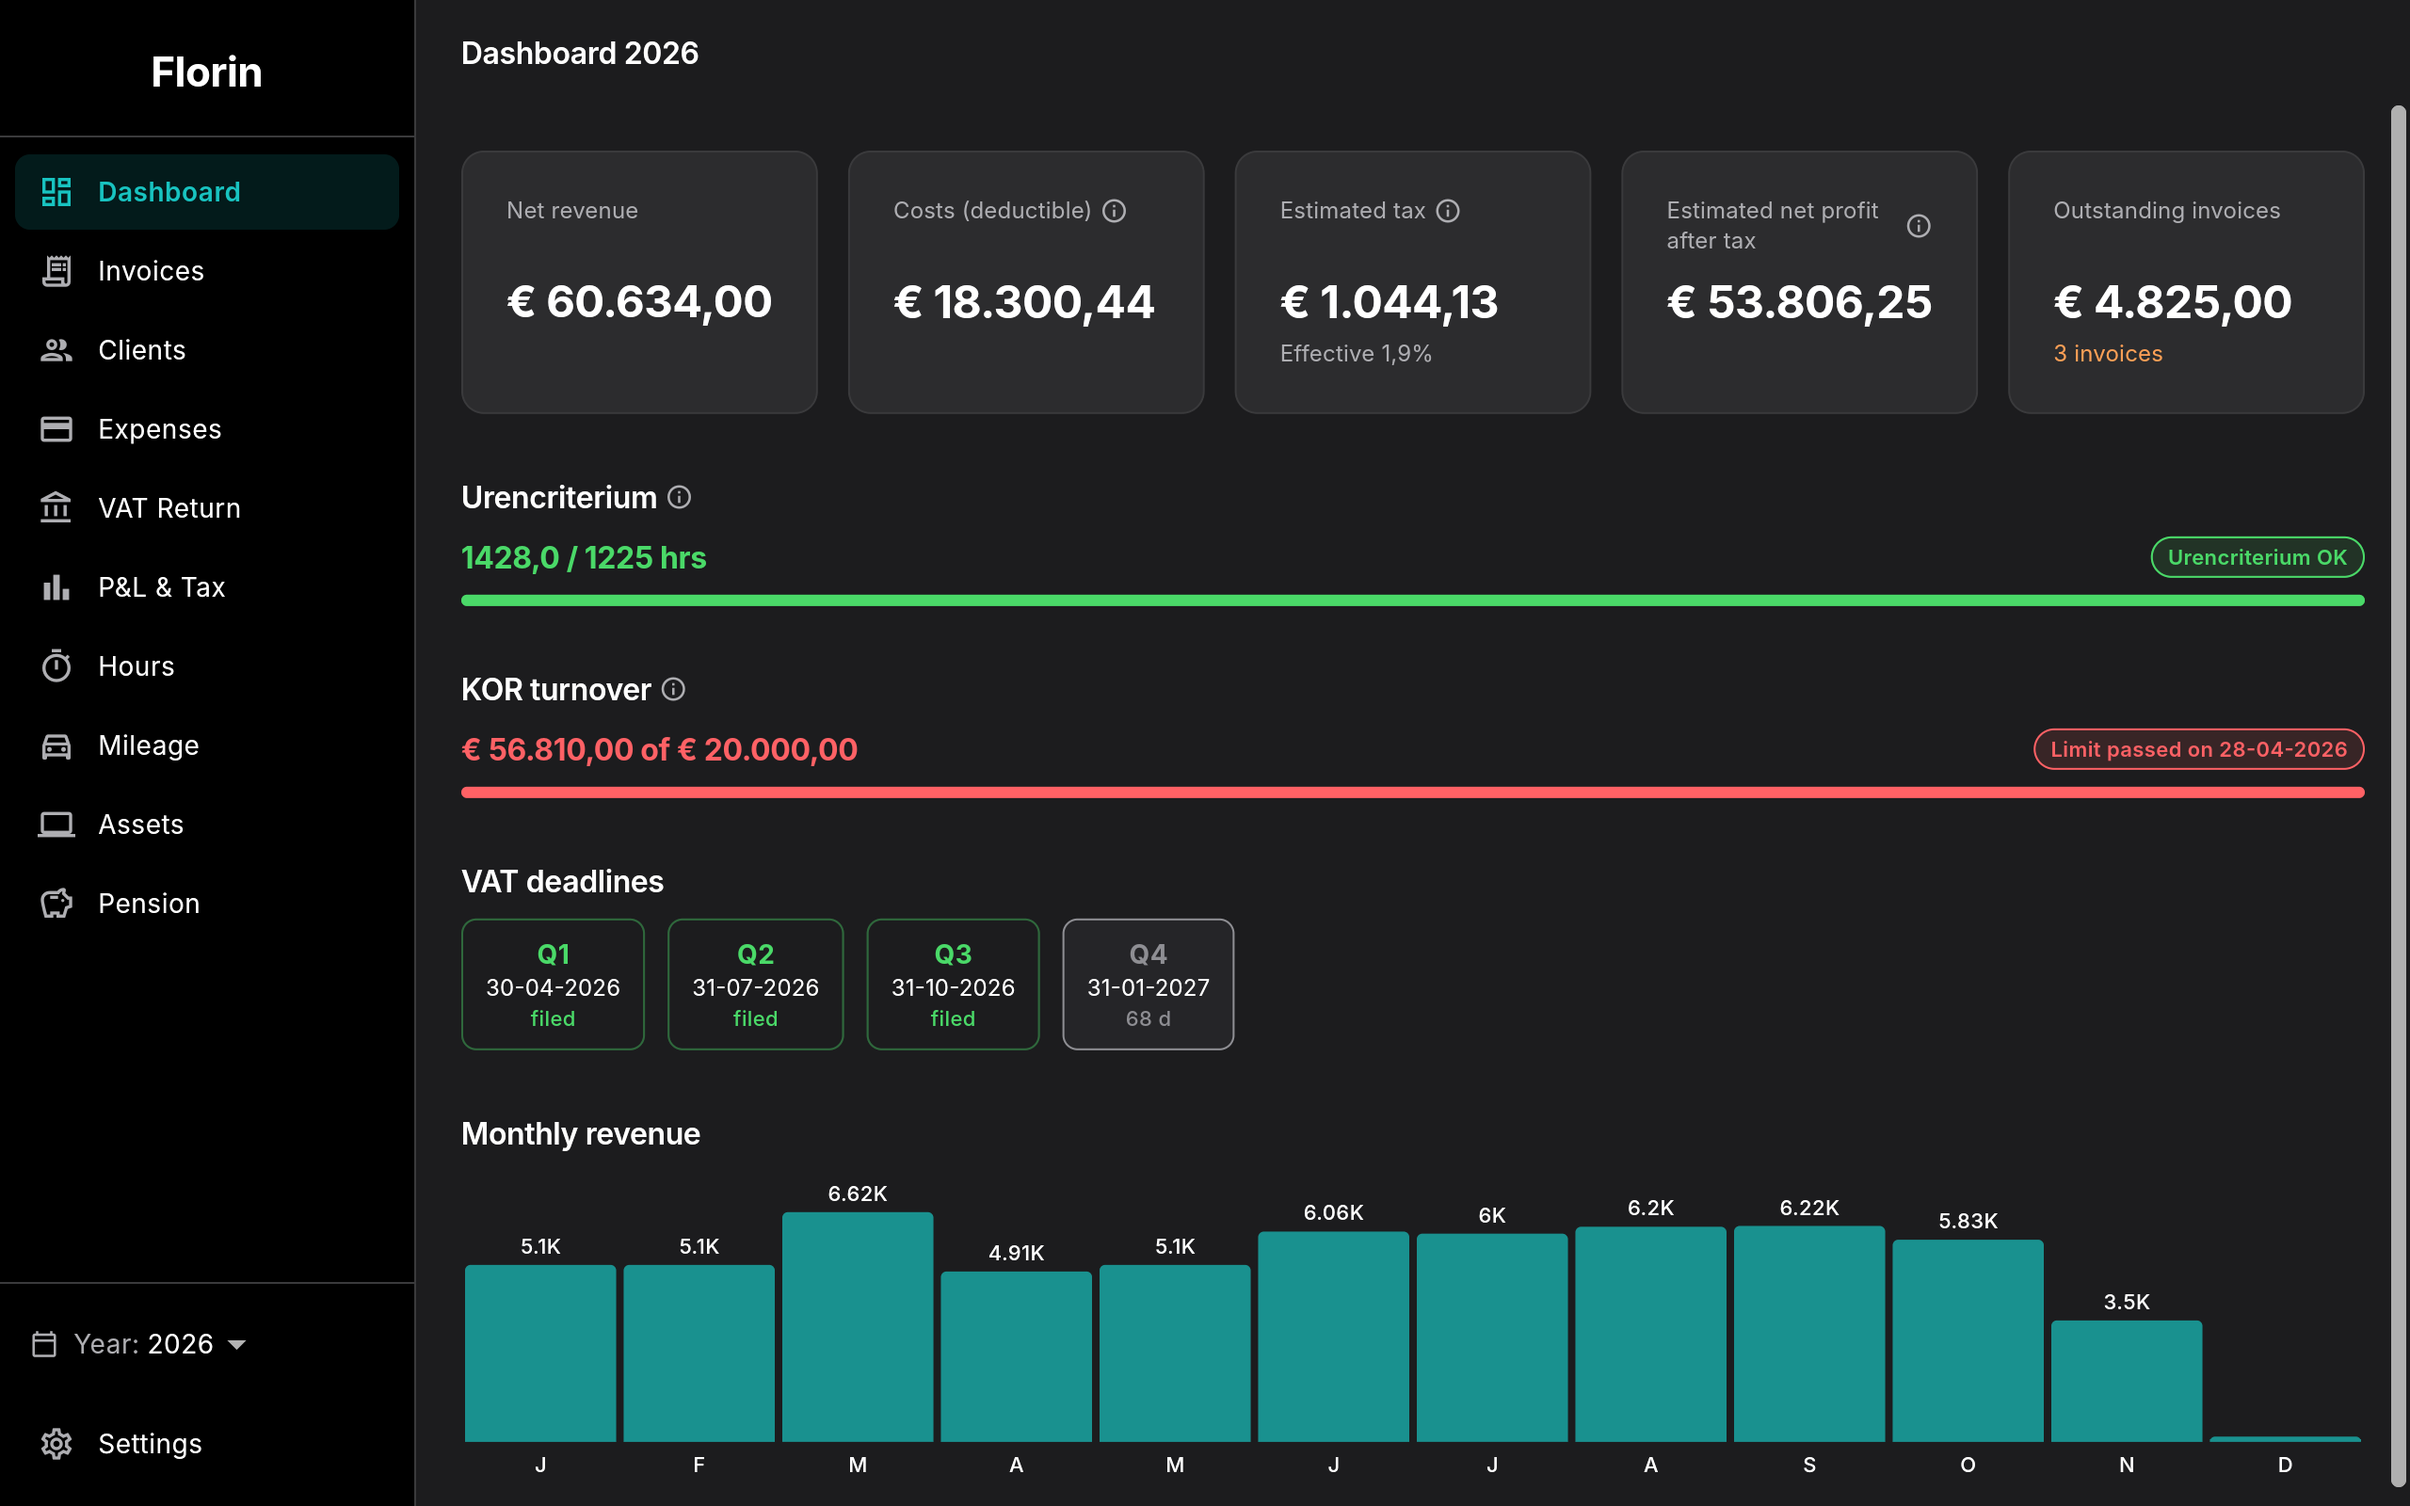
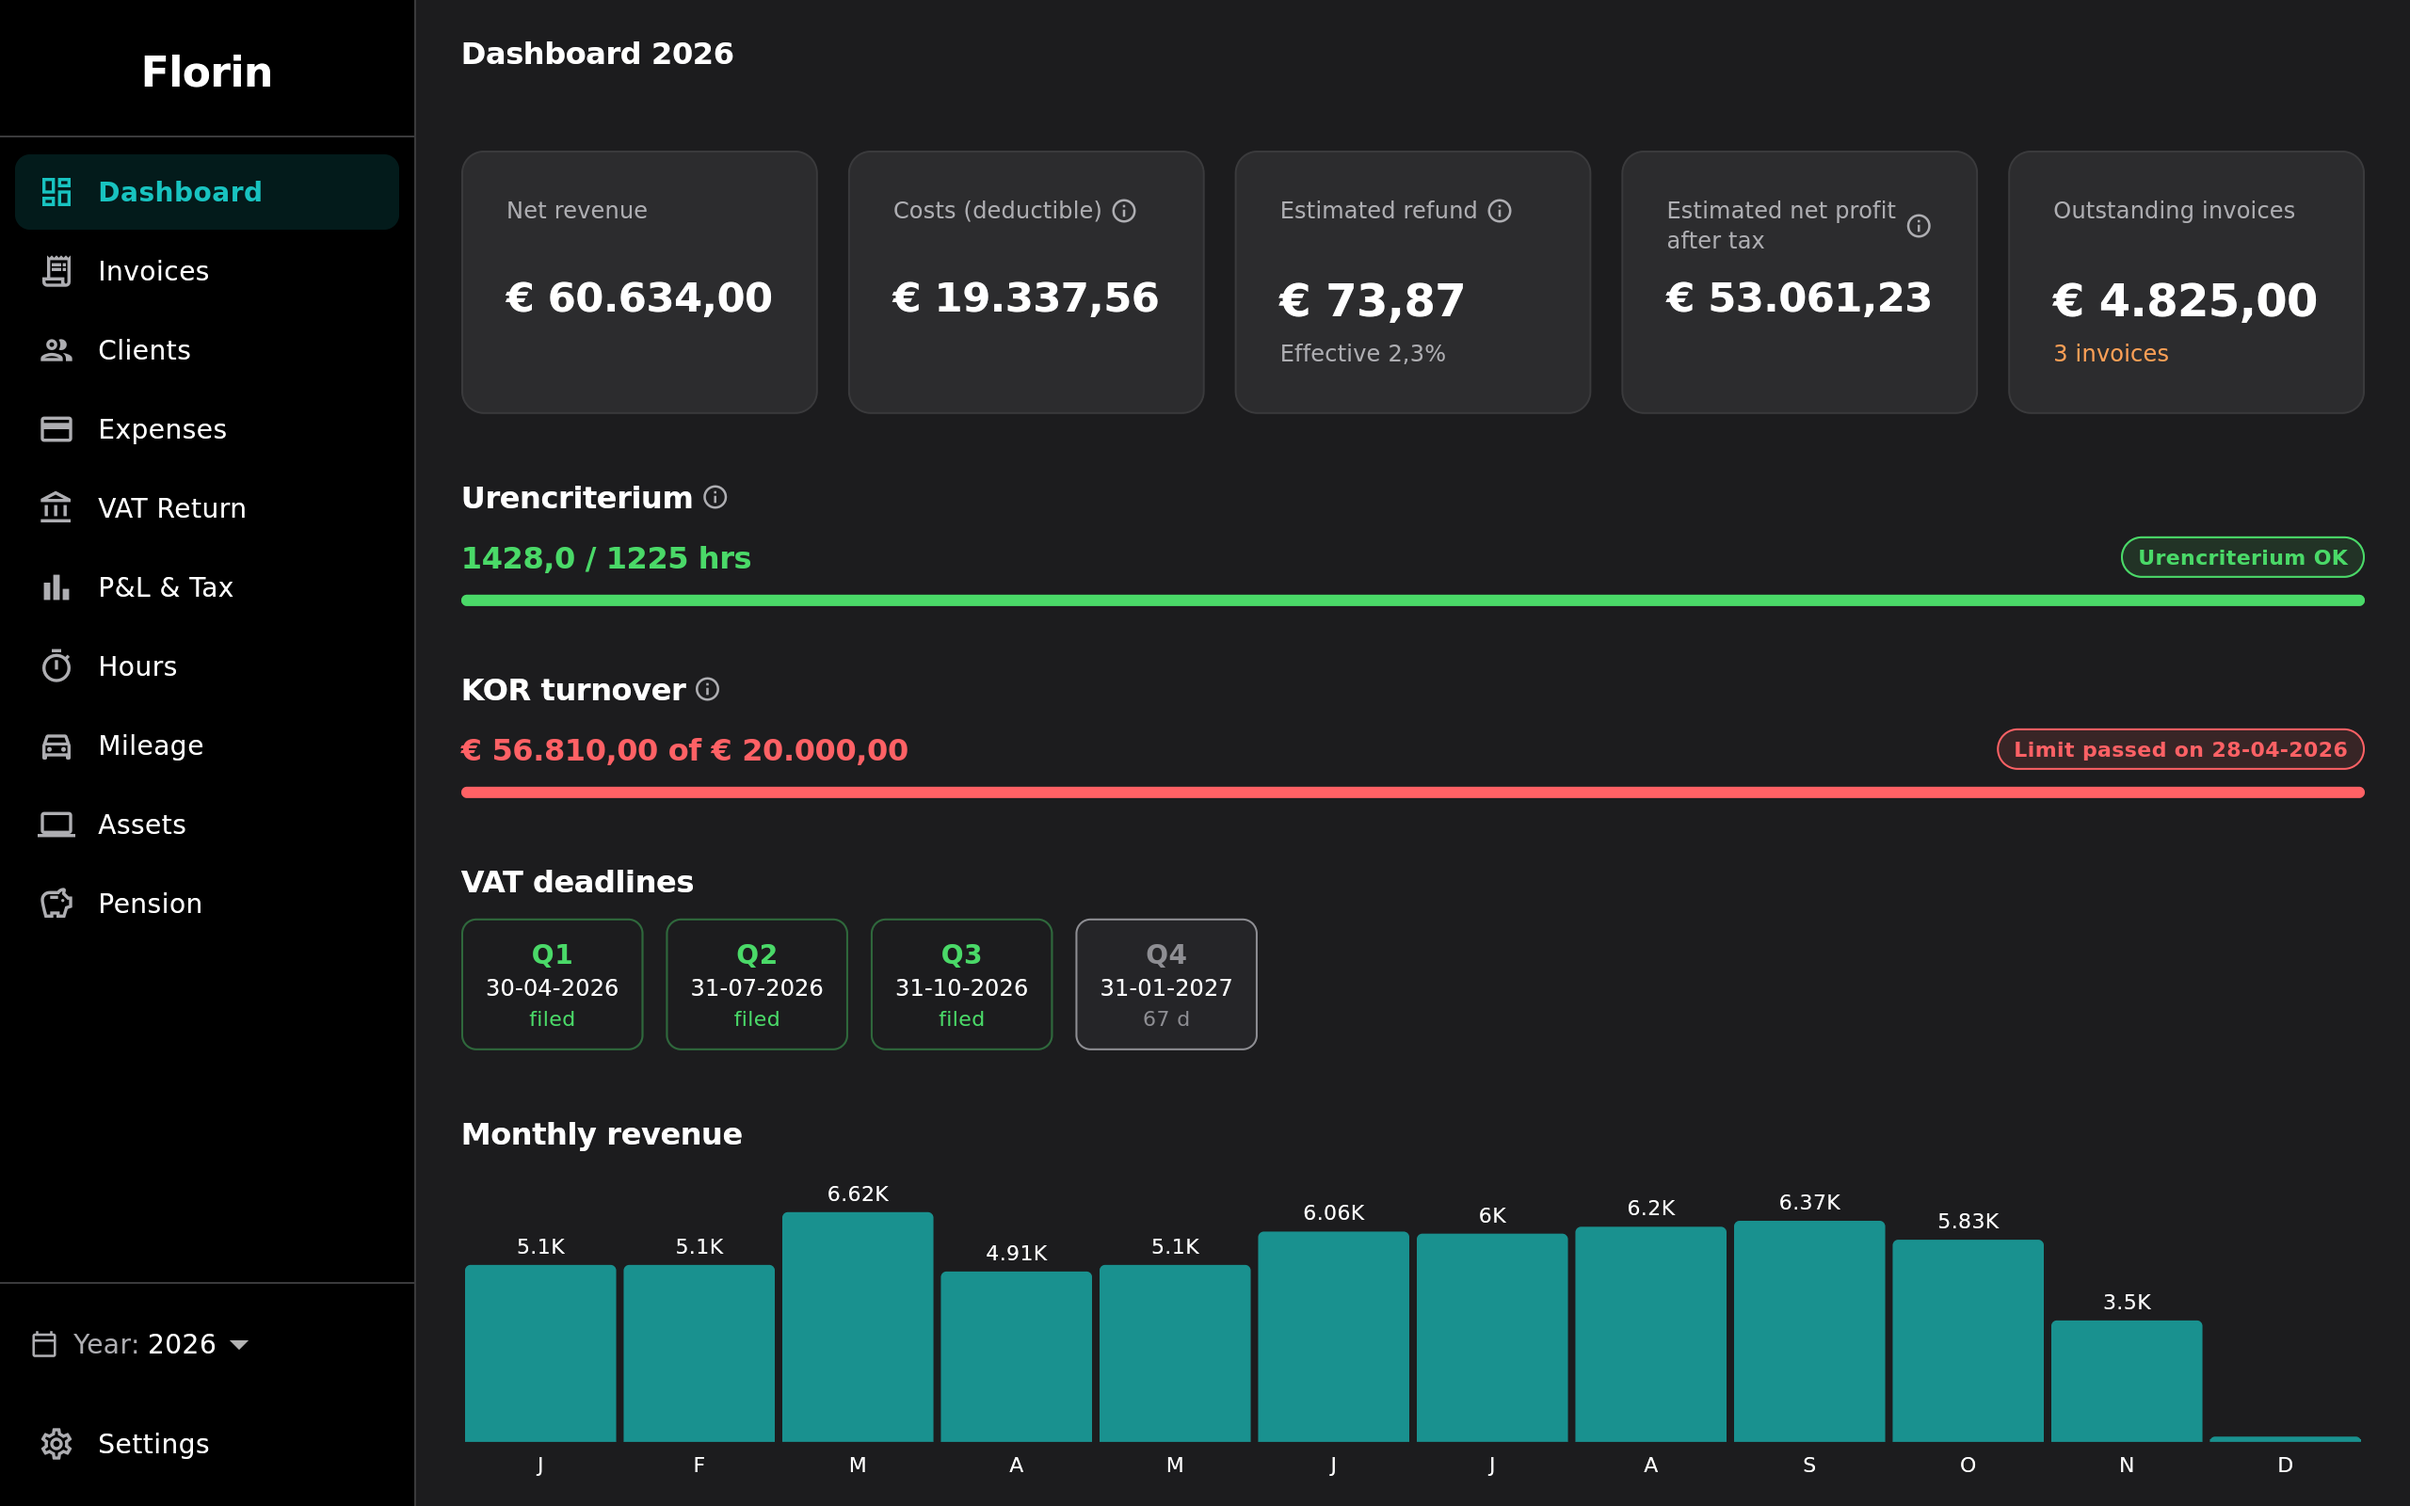
Retake the README screenshots and make dark mode work in UI reviews
The dashboard screenshots showed figures from an older demo and no longer
matched the app. The ui-review skill rendered every theme light on Linux
because Flutter reads the colour scheme from GNOME's settings schema, which
the skill did not install. The skill now says so and gives the steps for
the screenshots, and AGENTS.md lists them as something to keep in step with
the dashboard and the demo.

Claude-Session: https://claude.ai/code/session_014FR7ZeooviGi74kXDm1DNQ

diff --git a/.claude/skills/ui-review/SKILL.md b/.claude/skills/ui-review/SKILL.md
@@ -17,7 +17,22 @@ flutter build linux --release
 .claude/skills/ui-review/scripts/shot.sh invoices 80 143   # clicks, then saves
 ```
 
+On Linux the dark theme needs GNOME's settings schema (`apt-get install gsettings-desktop-schemas`): Flutter reads `color-scheme` from `org.gnome.desktop.interface`, and without the schema every theme renders light.
+
 `start.sh` opens the demo's year, or `UI_REVIEW_YEAR` when set. It copies `demo/` to a work folder (`UI_REVIEW_DIR`, default `/tmp/florin-ui-review`), so clicks never change the demo, sets the language and the GTK colour scheme, and opens a 1440 x 900 window at the left top of display `:99`. Read each screenshot with the Read tool. Use `xdotool key Escape` to close a dialog and `xdotool click 5` over a page to scroll it. At 1440 x 900 the sidebar items sit at x 80 and y 101 (Dashboard) to 479 (Pension) in steps of 42, Settings at y 866, a page's back button at (257, 28) and its add button at (1411, 28).
+
+## README screenshots
+
+`docs/screenshots/dashboard-en.png` and `dashboard-nl.png` show the demo's dashboard in dark mode at 2560 x 1600. Retake both whenever the dashboard or the demo changes:
+
+```sh
+GDK_SCALE=2 .claude/skills/ui-review/scripts/start.sh en dark 2560 1600
+.claude/skills/ui-review/scripts/shot.sh dashboard-en
+GDK_SCALE=2 .claude/skills/ui-review/scripts/start.sh nl dark 2560 1600
+.claude/skills/ui-review/scripts/shot.sh dashboard-nl
+```
+
+Then copy them from the shots folder into `docs/screenshots/`.
 
 ## What to open
 

diff --git a/AGENTS.md b/AGENTS.md
@@ -410,6 +410,7 @@ side.
 | A legal rule or legal copy | `docs/legal.md`, and run the `legal-review` skill |
 | A tax year | Only through the `new-tax-year` skill: rules file, `taxYears`, `docs/tax-years/<year>.md` with its table of every field, tests, both READMEs |
 | A field of `TaxYearRules` | Its value in every year's rules file, `docs/tax-years/README.md`, every `docs/tax-years/<year>.md`, and the texts that name it |
+| The dashboard or the demo data | The README screenshots in `docs/screenshots/`, retaken with the `ui-review` skill |
 | A table | `schemaVersion`, `make migration`, the migration step and its test, and `tool/create_demo_database.dart` so `make demo` still runs |
 | An enum in `lib/db/enums.dart` | `lib/l10n/labels.dart`, the Dutch mapping in `csv_export_service.dart`, and a migration if a stored value changed |
 | A shared widget's behaviour | Every screen that uses it, and the table above |
